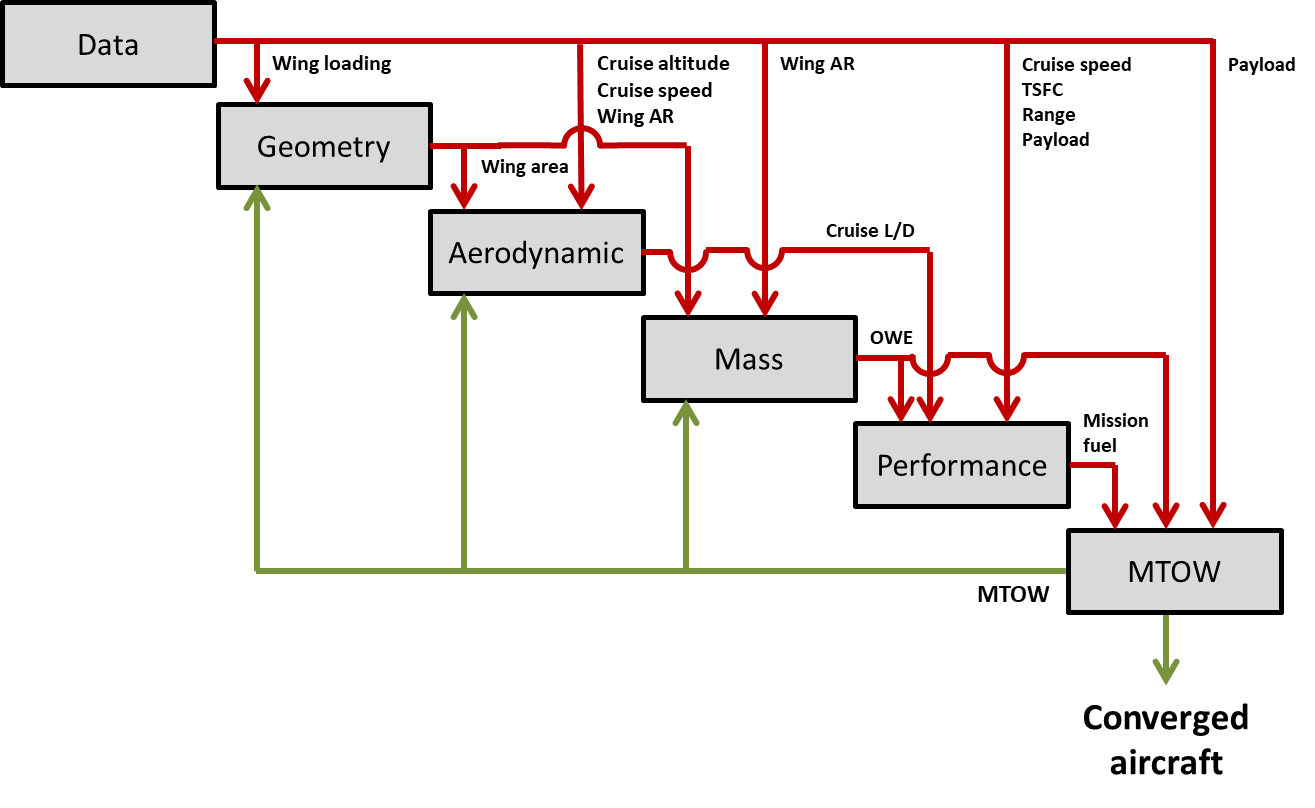
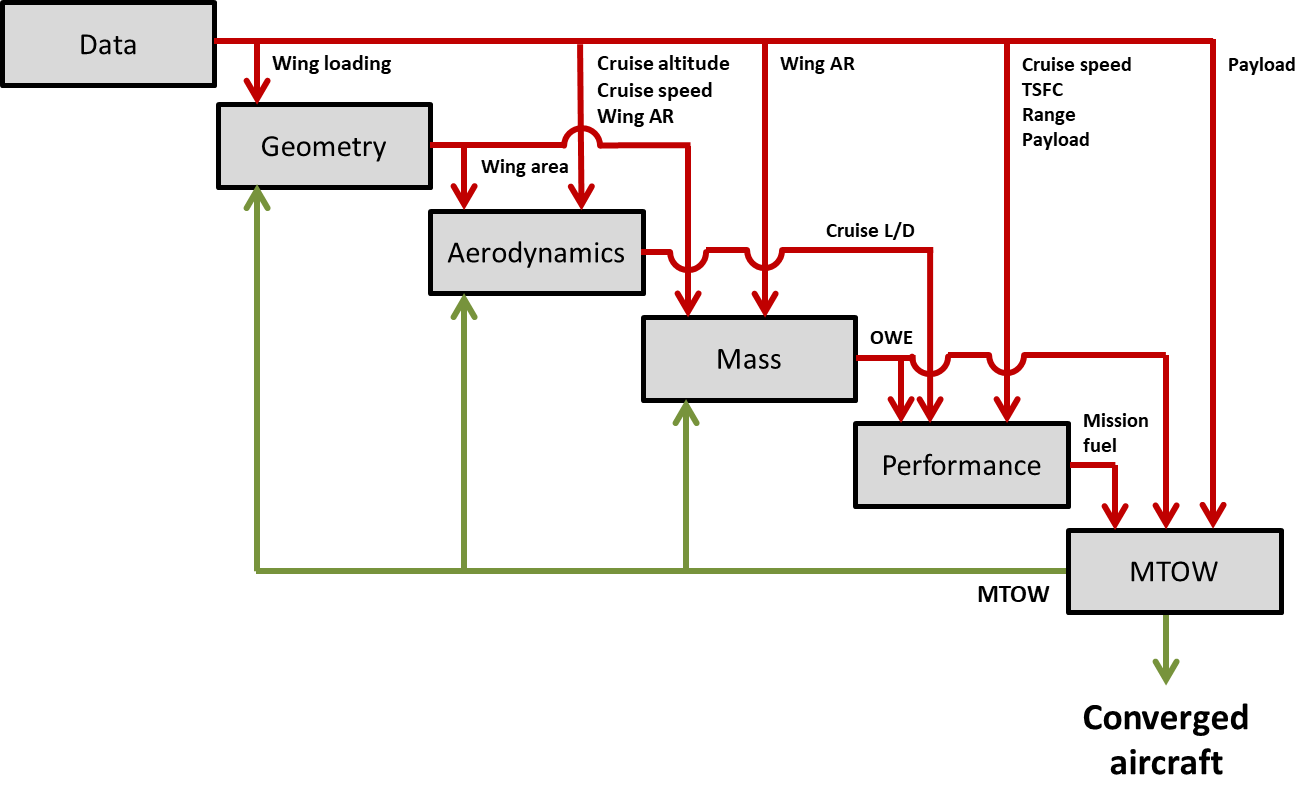
No more single aerodynamic
No more single aerodynamics, they won't be lonely anymore

diff --git a/src/fastoad/notebooks/02_explanation/modules/FAST-OAD/aerodynamics/aerodynamics.py b/src/fastoad/notebooks/02_explanation/modules/FAST-OAD/aerodynamics/aerodynamics.py
@@ -1,15 +1,16 @@
 import openmdao.api as om
 
-from ...OpenMDAO.aerodynamic.sub_components.compute_profile_drag import ComputeProfileDrag
-from ...OpenMDAO.aerodynamic.sub_components.compute_induced_drag_coefficient import (
+from ...OpenMDAO.aerodynamics.sub_components.compute_profile_drag import ComputeProfileDrag
+from ...OpenMDAO.aerodynamics.sub_components.compute_induced_drag_coefficient import (
     ComputeInducedDragCoefficient,
 )
-from ...OpenMDAO.aerodynamic.sub_components.compute_lift_to_drag_ratio import ComputeLiftToDragRatio
+from ...OpenMDAO.aerodynamics.sub_components.compute_lift_to_drag_ratio import \
+    ComputeLiftToDragRatio
 
 import fastoad.api as oad
 
 
-@oad.RegisterOpenMDAOSystem("tutorial.fast_oad.aerodynamic")
+@oad.RegisterOpenMDAOSystem("tutorial.fast_oad.aerodynamics")
 class ComputeAerodynamics(om.Group):
     def setup(self):
 

diff --git a/src/fastoad/notebooks/02_explanation/modules/python_for_scipy/mtow_loop_scipy.py b/src/fastoad/notebooks/02_explanation/modules/python_for_scipy/mtow_loop_scipy.py
@@ -1,5 +1,5 @@
 from ..pure_python.geometry.geometry import compute_geometry
-from ..pure_python.aerodynamic.aerodynamic import compute_aerodynamic
+from ..pure_python.aerodynamics.aerodynamics import compute_aerodynamics
 from ..pure_python.mass.mass import compute_mass
 from ..pure_python.performance.performance import compute_performance
 from ..pure_python.update_mtow.update_mtow import update_mtow
@@ -29,7 +29,7 @@ def mtow_loop_scipy(x, wing_loading, cruise_altitude, cruise_speed, mission_rang
     wing_area = compute_geometry(mtow=mtow, wing_loading=wing_loading)
 
     # Let's now compute its aerodynamic properties
-    l_d = compute_aerodynamic(
+    l_d = compute_aerodynamics(
         cruise_altitude=cruise_altitude,
         cruise_speed=cruise_speed,
         mtow=mtow,

diff --git a/src/fastoad/notebooks/02_explanation/modules/pure_python/mtow_and_fuel_loop.py b/src/fastoad/notebooks/02_explanation/modules/pure_python/mtow_and_fuel_loop.py
@@ -1,5 +1,5 @@
 from .geometry.geometry import compute_geometry
-from .aerodynamic.aerodynamic import compute_aerodynamic
+from .aerodynamics.aerodynamics import compute_aerodynamics
 from .mass.mass import compute_mass
 from .performance.performance import compute_performance
 from .update_mtow.update_mtow import update_mtow
@@ -27,8 +27,8 @@ def mtow_and_fuel_loop(
     # Let's start by computing the aircraft geometry
     wing_area = compute_geometry(mtow=mtow, wing_loading=wing_loading)
 
-    # Let's now compute its aerodynamic properties
-    l_d = compute_aerodynamic(
+    # Let's now compute its aerodynamics properties
+    l_d = compute_aerodynamics(
         cruise_altitude=cruise_altitude,
         cruise_speed=cruise_speed,
         mtow=mtow,

diff --git a/src/fastoad/notebooks/02_explanation/modules/python_for_scipy/compute_fuel_scipy.py b/src/fastoad/notebooks/02_explanation/modules/python_for_scipy/compute_fuel_scipy.py
@@ -1,5 +1,5 @@
 from ..pure_python.geometry.geometry import compute_geometry
-from ..pure_python.aerodynamic.aerodynamic import compute_aerodynamic
+from ..pure_python.aerodynamics.aerodynamics import compute_aerodynamics
 from ..pure_python.mass.mass import compute_mass
 from ..pure_python.performance.performance import compute_fuel_mission
 
@@ -30,7 +30,7 @@ def compute_fuel_scipy(
     wing_area = compute_geometry(mtow=mtow, wing_loading=wing_loading)
 
     # Let's now compute its aerodynamic properties
-    l_d = compute_aerodynamic(
+    l_d = compute_aerodynamics(
         cruise_altitude=cruise_altitude,
         cruise_speed=cruise_speed,
         mtow=mtow,

diff --git a/src/fastoad/notebooks/02_explanation/modules/pure_python/mtow_loop.py b/src/fastoad/notebooks/02_explanation/modules/pure_python/mtow_loop.py
@@ -1,5 +1,5 @@
 from .geometry.geometry import compute_geometry
-from .aerodynamic.aerodynamic import compute_aerodynamic
+from .aerodynamics.aerodynamics import compute_aerodynamics
 from .mass.mass import compute_mass
 from .performance.performance import compute_performance
 from .update_mtow.update_mtow import update_mtow
@@ -28,7 +28,7 @@ def mtow_loop(
     wing_area = compute_geometry(mtow=mtow, wing_loading=wing_loading)
 
     # Let's now compute its aerodynamic properties
-    l_d = compute_aerodynamic(
+    l_d = compute_aerodynamics(
         cruise_altitude=cruise_altitude,
         cruise_speed=cruise_speed,
         mtow=mtow,

diff --git a/src/fastoad/notebooks/02_explanation/modules/pure_python/aerodynamics/aerodynamics.py b/src/fastoad/notebooks/02_explanation/modules/pure_python/aerodynamics/aerodynamics.py
@@ -3,9 +3,9 @@ from .sub_components.compute_induced_drag_coefficient import compute_k
 from .sub_components.compute_lift_to_drag_ratio import compute_l_d
 
 
-def compute_aerodynamic(cruise_altitude, cruise_speed, mtow, wing_area, aspect_ratio):
+def compute_aerodynamics(cruise_altitude, cruise_speed, mtow, wing_area, aspect_ratio):
     """
-    Gather all the aerodynamic sub-functions in the main function
+    Gather all the aerodynamics sub-functions in the main function
 
     :param cruise_altitude: Cruise altitude, in m
     :param cruise_speed: Cruise speed, in m/s

diff --git a/src/fastoad/notebooks/02_explanation/modules/OpenMDAO/mtow_loop.py b/src/fastoad/notebooks/02_explanation/modules/OpenMDAO/mtow_loop.py
@@ -1,5 +1,5 @@
 from .geometry.geometry import ComputeGeometry
-from .aerodynamic.aerodynamic import ComputeAerodynamics
+from .aerodynamics.aerodynamics import ComputeAerodynamics
 from .mass.mass import ComputeMassCorrect, ComputeMassExercise
 from .performance.performance import ComputePerformance
 from .update_mtow.update_mtow import UpdateMTOW

diff --git a/src/fastoad/notebooks/02_explanation/modules/FAST-OAD/mtow_loop.py b/src/fastoad/notebooks/02_explanation/modules/FAST-OAD/mtow_loop.py
@@ -1,5 +1,5 @@
 from .geometry.geometry import ComputeGeometry
-from .aerodynamic.aerodynamic import ComputeAerodynamics
+from .aerodynamics.aerodynamics import ComputeAerodynamics
 from .mass.mass import ComputeMass
 from .performance.performance import ComputePerformance
 from .update_mtow.update_mtow import UpdateMTOW
